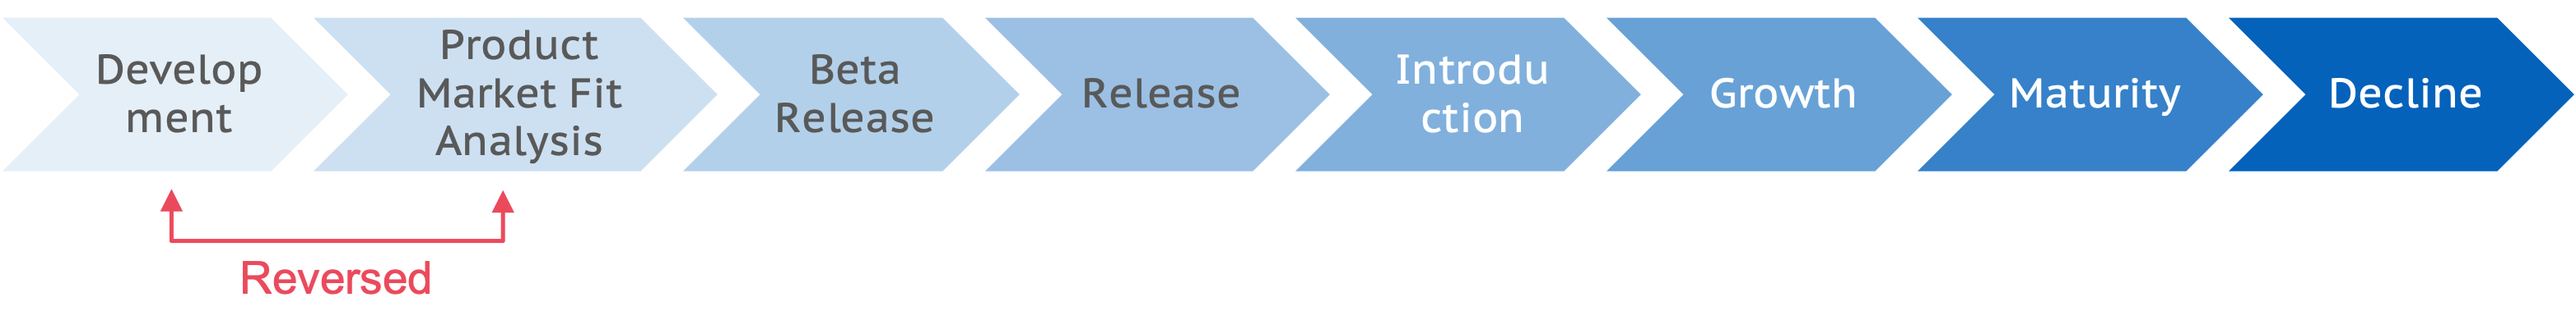
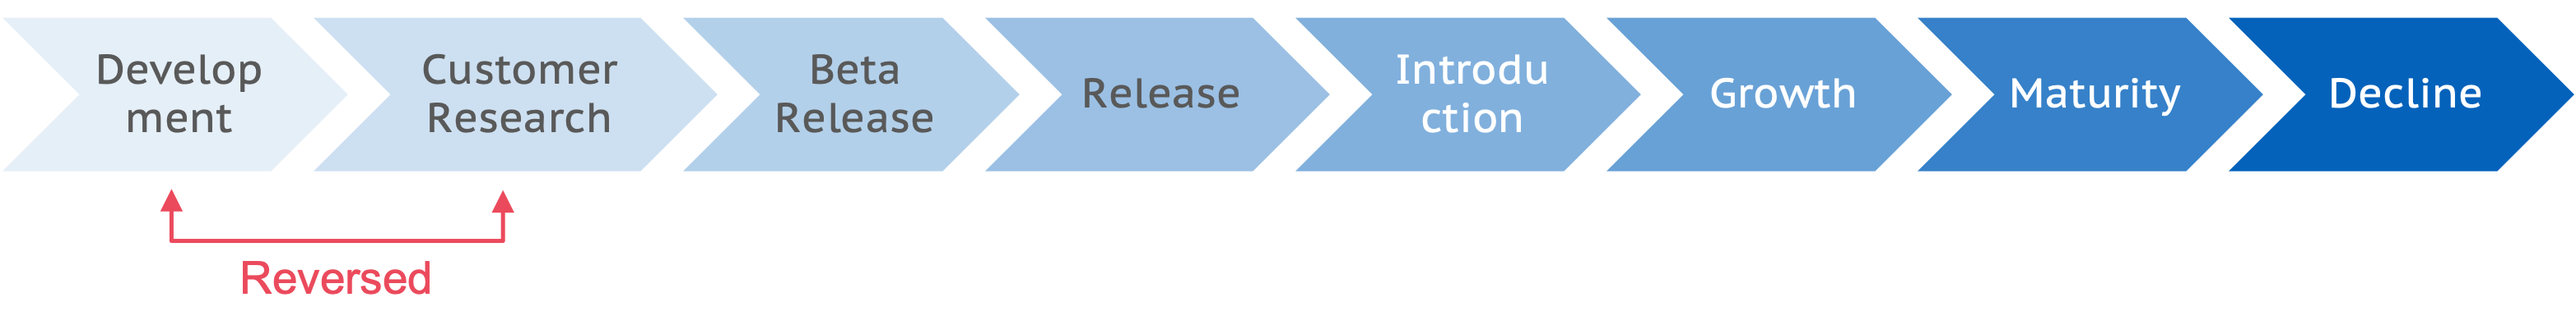
commit

Changed region(s): [[0.155, 0.0885, 0.2479, 0.4717]]

diff --git a/safetymanagementapp.html b/safetymanagementapp.html
@@ -61,7 +61,7 @@
 
         <div class="row portfolio-container" data-aos="fade-up" data-aos-delay="200">
 
-          <div class="col-lg-4 col-md-6 portfolio-item filter-frontend filter-backend">
+          <div class="col-lg-4 col-md-6 portfolio-item">
             <div class="portfolio-wrap">
               <img src="assets/img/portfolio/safetymanagementapp1.png" class="img-fluid" alt="">
               <div class="portfolio-info">
@@ -144,7 +144,12 @@
             </div>
           </div>
         </div>
+      </div>
+    </section><!-- End Resume Section -->
 
+    <!-- ======= Resume Section ======= -->
+    <section id="resume" class="resume">
+      <div class="container" data-aos="fade-up">
         <div class="section-title2">
           <h2><i class="bi bi-bounding-box"></i> Project Structure</h2>
           <p>Since my company had outsourced our development to a partner vendor located in Bangladesh, all members of
@@ -157,7 +162,6 @@
               data-aos-delay="100"></img>
           </div>
         </div>
-
       </div>
     </section><!-- End Resume Section -->
 
@@ -166,7 +170,7 @@
     <section id="resume" class="resume">
       <div class="container" data-aos="fade-up">
 
-        <div class="section-title2">
+        <div>
           <h2><i class="bi bi-person"></i> HOW I WORKED</h2>
 
           <div class="section-title2" data-aos="fade-up">
@@ -184,93 +188,35 @@
 
           <div class="section-title2" data-aos="fade-up">
 
-            <h3 class="resume-title2">【STEP2】 Solution & Planning</h3>
-            <p> To address this issue, I have broken it into two parts and restructured the project plan into four
-              phases with specific objectives. These phases are Product Market Fit Analysis, Product Strategy
-              Building, Development, and Beta Release.
-            </p>
-            <p>Therefore, I have divided this issue into two parts. And restructured the project plan from start
-              strategically with clear goal. </p>
-            <p class="resume-sub-title">・Complete the Development</p>
-            <p>The first part is to get the development of the product back on track and make sure that it is
-              completed. This requires finding out what went wrong and addressing any issues that caused the
-              development to be stuck. It may also require re-prioritizing tasks, restructuring the team, and/or
-              allocating more resources to the project.</p>
-            <p class="resume-sub-title">・To get the development of the product back on track and make sure that it
-              is
-              completed</p>
-            <p>The second part is to determine if there is a market need for the product. This requires researching
-              current customer needs, trends, and competitor offerings. Additionally, interviews with potential
-              customers and a focus group should be conducted to get valuable feedback. This feedback can then be
-              used
-              to adjust the product to better meet the needs of the target market.</p>
+            <h3 class="resume-title2">【STEP2】 Solution Proposal & Planning</h3>
+            <p>To address this issue, I have restructured the project plan into four phases with clear goals. These phases are Conducting Customer Research, Building Product Strategy, Development, and Beta Release.</p>
+            <div class="custom-image ">
+              <img src="assets/img/portfolio/process-image2.png" class="img-fluid" data-aos="fade-up"></img>
+            </div>
+            <p>The first point is to investigate whether there is a need for this product in the market, as it doesn't make sense to create a product without it. If there is, then the next step is to develop a product strategy which I added to provide the team with direction and to help them proceed with the project strategically and efficiently. If we can ensure the product meets the needs, we can continue the project and the rest of the development should be completed. Once the development phase is completed, the product should be released as a beta version to assess its market fit instead of immediately releasing it to the world. Again, this beta release is essential to ensure that the product meets customer needs and finalizes the product.</p>
+          </div>
 
-            <p>まずマーケットにニーズがあるのか調査することが第一優先と考えました。なぜならニーズのないプロダクトを作っても意味がないからです。
-              ニーズがあるなら次に製品を完成させます。ただしstrategicに開発を効率的に進めるためにプロダクトストラテジーを追加しました。
-              開発が完成したらすぐに世の中に出すのではなく、完成品で市場の反応をベータ版をして出します。そのあと公式リリースです。
-              大きく4段階のマイルストーンを弾いて、まずベータ版リリースをゴールにしました。</p>
+          <div data-aos="fade-up">
+            <h3 class="resume-title2">【STEP3】 Execution</h3>
 
+            <!-- Customer Research -->
+            <h3 class="resume-title3">Customer Research</h3>
+            <p>Since this product was still in the development stage and we had no information or metric on how customers would interact with it, I decided first to get feedback from our employees in the General Affairs department, which is the target audience for this product in the EMUC framework. I also utilized existing customers by offering the product for free use and collecting their feedback, as gathering feedback from prospects or new customers would take a long time and be more difficult. This enabled us to collect enough data to ensure that the product was fitting the market and customer's needs.</p>
             <div class="custom-image ">
               <img src="assets/img/portfolio/emuc.png" class="img-fluid" alt="" data-aos="zoom-out"
                 data-aos-delay="100"></img>
             </div>
-            <div class="custom-image ">
-              <img src="assets/img/portfolio/process-image2.png" class="img-fluid" data-aos="fade-up"></img>
-            </div>
 
-          </div>
-
-          <div class="section-title2" data-aos="fade-up">
-
-            <h3 class="resume-title2">【STEP3】 Execution</h3>
-            <p>まあああ</p>
-
-            <!-- Product Market Fit Analysism -->
-            <h3 class="resume-title3">Product Market Fit Analysis</h3>
-            <p>→まずやったこととしてSince Bto B app, EMUCのうちEmployee(社内利用)とClientsに、50%の状態で既存顧客に使ってもらいました。
-              これにより、市場のニーズがあることがわかったので確信を持ってプロダクトの開発を進めることができるようになりました。
-            </p>
-
-            <ul class="steps" data-aos="fade-up">
-              <li class="step step-active">
-                <div class="step-content">
-                  <span class="step-circle">1</span>
-                  <span class="step-text">Product Market Fit Analysis</span>
-                </div>
-              </li>
-              <li class="step step-success">
-                <div class="step-content">
-                  <span class="step-circle">2</span>
-                  <span class="step-text">Product Strategy</span>
-                </div>
-              </li>
-              <li class="step step-success">
-                <div class="step-content">
-                  <span class="step-circle">3</span>
-                  <span class="step-text">Development</span>
-                </div>
-              </li>
-              <li class="step step-success">
-                <div class="step-content">
-                  <span class="step-circle">4</span>
-                  <span class="step-text">Beta Release</span>
-                </div>
-              </li>
-            </ul>
-
-            <p>ああああ
-            <p>
-
-              <!-- Product Strategy -->
+            <!-- Product Strategy -->
             <h3 class="resume-title3">Product Strategy</h3>
-            <p>　　1、ビジョン</p>
-            　　　 <p>　　　→どんな製品にしたいのか？</p>
-            　 <p>　2、他社と同じとこを攻めてもダメなので自社が得意でdifferentiateするためマーケットとターケット顧客の明確化　、そしてその顧客にニーズを満たしているか　市場の図</p>
-            　　　 <p>　→teams、ペルソナ作成など</p>
-            　　 <p>3、ビジネスオブジェクティブを決める</p>
-            　　　　 <p>→ビジネスモデルの決定</p>
-
-
+            <ol>
+              <li class="resume-sub-title">Vision</li>
+              <p>I have established a clear product message and vision that describes the desired future state of a product for a company or team (including engineers and designers).</p>
+              <li class="resume-sub-title">Define Target and Meet Needs</li>
+              <p>Although we were able to confirm there was a need for this product, that was not enough. Because there were already many competitors in the market. We needed to differentiate our product from the others and identify the appropriate customer segments for it. To do so, I leveraged our company's expertise in O365 integration which made our product stand out, and further defined and clarified the ideal customer persona and the area of the market we should focus on = Product Market Fit.</p>
+              <li class="resume-sub-title">KPI for Business Objective</li>
+              <p>I have set KPIs to determine how many users we want to acquire through this product, within what timeframe, and what our revenue goal should be to achieve business objectives.</p>
+            </ol>
 
             <div class="row">
               <div class="col-lg-6">
@@ -321,7 +267,7 @@
               <li class="step step-active">
                 <div class="step-content">
                   <span class="step-circle">1</span>
-                  <span class="step-text">Product Market Fit Analysis</span>
+                  <span class="step-text">Customer Research</span>
                 </div>
               </li>
               <li class="step step-active">
@@ -396,7 +342,7 @@
               <li class="step step-active">
                 <div class="step-content">
                   <span class="step-circle">1</span>
-                  <span class="step-text">Product Market Fit Analysis</span>
+                  <span class="step-text">Customer Research</span>
                 </div>
               </li>
               <li class="step step-active">
@@ -518,67 +464,102 @@
               </div>
             </div>
 
+            <ul class="steps" data-aos="fade-up">
+              <li class="step step-active">
+                <div class="step-content">
+                  <span class="step-circle">1</span>
+                  <span class="step-text">Customer Research</span>
+                </div>
+              </li>
+              <li class="step step-active">
+                <div class="step-content">
+                  <span class="step-circle">2</span>
+                  <span class="step-text">Product Strategy</span>
+                </div>
+              </li>
+              <li class="step step-active">
+                <div class="step-content">
+                  <span class="step-circle">3</span>
+                  <span class="step-text">Development</span>
+                </div>
+              </li>
+              <li class="step step-active">
+                <div class="step-content">
+                  <span class="step-circle">4</span>
+                  <span class="step-text">Beta Release</span>
+                </div>
+              </li>
+            </ul>
 
-            <div class="custom-image ">
-              <img src="assets/img/portfolio/competitive-analysis-blurry.gif" class="img-fluid" alt=""
-                data-aos="zoom-out" data-aos-delay="100"></img>
-            </div>
-
-            <div class="custom-image ">
-              <img src="assets/img/portfolio/cvp-analysis-blurry.jpg" class="img-fluid" alt="" data-aos="zoom-out"
-                data-aos-delay="100"></img>
-            </div>
 
 
-            <div class="custom-image ">
-              <img src="assets/img/portfolio/feature-table-blurry.png" class="img-fluid" alt="" data-aos="zoom-out"
-                data-aos-delay="100"></img>
-            </div>
           </div>
-          <ul class="steps" data-aos="fade-up">
-            <li class="step step-active">
-              <div class="step-content">
-                <span class="step-circle">1</span>
-                <span class="step-text">Product Market Fit Analysis</span>
-              </div>
-            </li>
-            <li class="step step-active">
-              <div class="step-content">
-                <span class="step-circle">2</span>
-                <span class="step-text">Product Strategy</span>
-              </div>
-            </li>
-            <li class="step step-active">
-              <div class="step-content">
-                <span class="step-circle">3</span>
-                <span class="step-text">Development</span>
-              </div>
-            </li>
-            <li class="step step-active">
-              <div class="step-content">
-                <span class="step-circle">4</span>
-                <span class="step-text">Beta Release</span>
-              </div>
-            </li>
-          </ul>
         </div>
-
-
       </div>
-
-
-      </div>
-
     </section><!-- End Resume Section -->
 
 
+    <!-- ======= Portfolio Section ======= -->
+    <section id="portfolio" class="portfolio section-bg">
+      <div class="container" data-aos="fade-up">
+
+        <div class="row portfolio-container" data-aos="fade-up" data-aos-delay="200">
+
+          <div class="section-title">
+            <h2>Reference</h2>
+            <p>Those are the record of documents which I made for the projects. Blurryed due to compliance.</p>
+          </div>
+  
+
+          <div class="col-lg-4 col-md-6 portfolio-item filter-pdm">
+            <div class="portfolio-wrap">
+              <img src="assets/img/portfolio/feature-table-blurry.png" class="img-fluid" alt="">
+              <div class="portfolio-info">
+                <h4>Feature Table</h4>
+                <p>Lists the features of competitor's product or service.</p>
+                <div class="portfolio-links">
+                  <a href="assets/img/portfolio/feature-table-blurry.png" data-gallery="portfolioGallery"
+                    class="portfolio-lightbox"><i class="bx bx-plus"></i></a>
+                </div>
+              </div>
+            </div>
+          </div>
+
+
+          <div class="col-lg-4 col-md-6 portfolio-item filter-pdm">
+            <div class="portfolio-wrap">
+              <img src="assets/img/portfolio/competitive-analysis-blurry.gif" class="img-fluid" alt="">
+              <div class="portfolio-info">
+                <h4>Safety Management App</h4>
+                <!-- <p>Web</p> -->
+                <div class="portfolio-links">
+                  <a href="assets/img/portfolio/competitive-analysis-blurry.gif" data-gallery="portfolioGallery"
+                    class="portfolio-lightbox"><i class="bx bx-plus"></i></a>
+                </div>
+              </div>
+            </div>
+          </div>
+
+
+          <div class="col-lg-4 col-md-6 portfolio-item filter-pdm">
+            <div class="portfolio-wrap">
+              <img src="assets/img/portfolio/cvp-analysis-blurry.jpg" class="img-fluid" alt="">
+              <div class="portfolio-info">
+                <h4>Safety Management App</h4>
+                <!-- <p>Web</p> -->
+                <div class="portfolio-links">
+                  <a href="assets/img/portfolio/cvp-analysis-blurry.jpg" data-gallery="portfolioGallery"
+                    class="portfolio-lightbox"><i class="bx bx-plus"></i></a>
+                </div>
+              </div>
+            </div>
+          </div>
 
 
 
-
-
-
-
+        </div>
+    </section>
+    <!-- End Portfolio Section -->
 
   </main><!-- End #main -->
 
